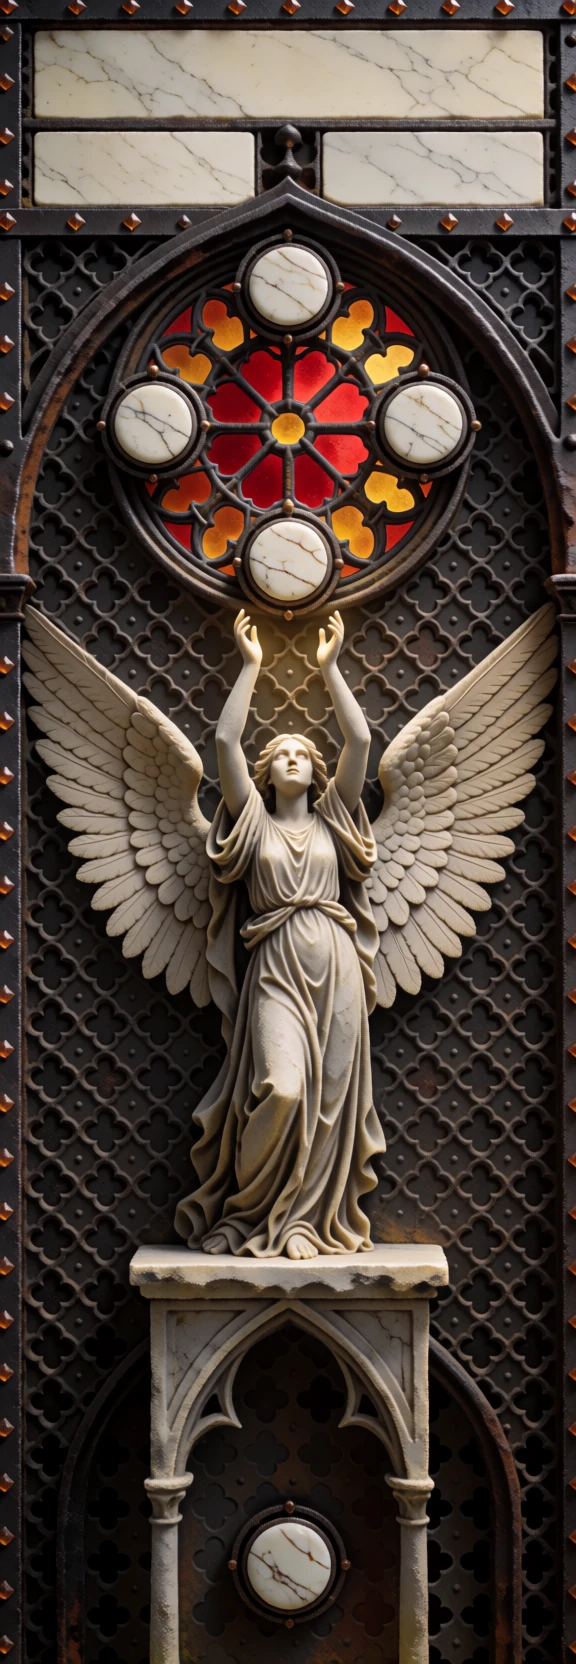
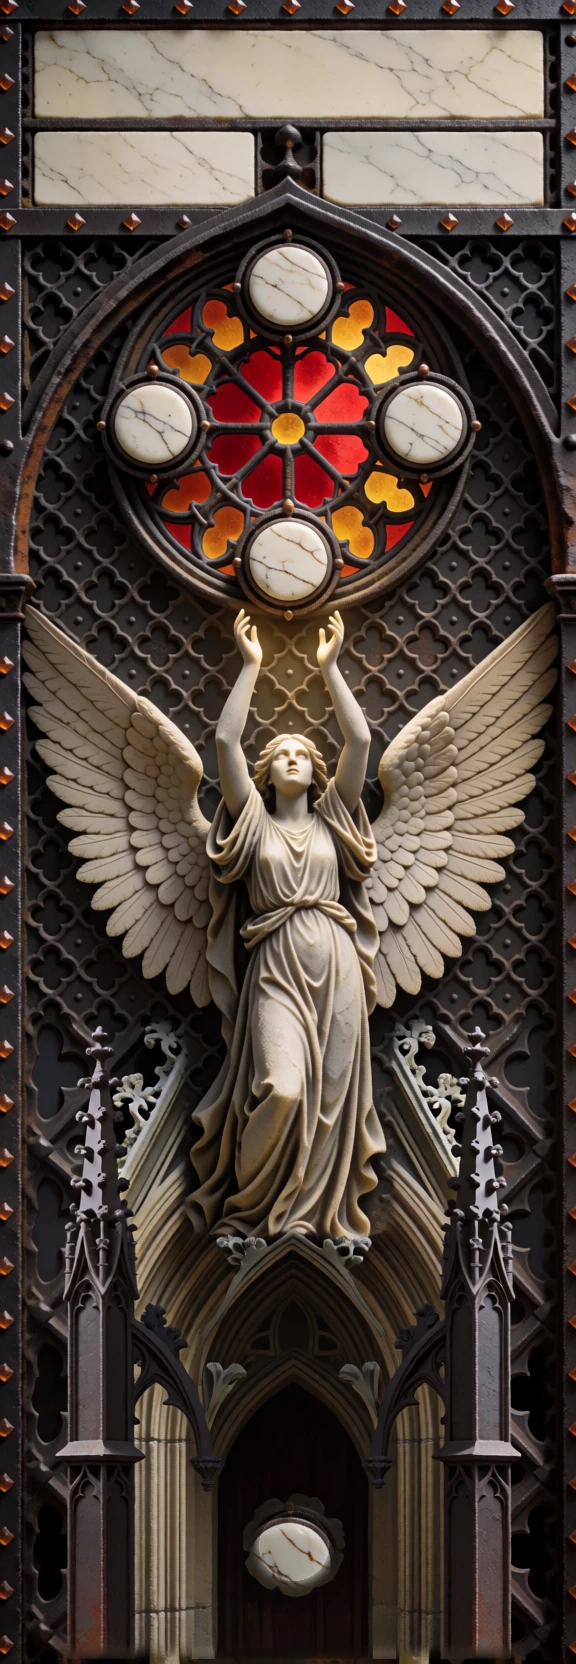
Jilliath's Capitol column: under the angel a stone portal framing the leave button, a crocketed gable and leaf corbel she stands on, pinnacles with flying buttresses (inpainted into round 4's base)

Changed region(s): [[0.0312, 0.5938, 0.9688, 1.0]]

diff --git a/scripts/art/hud-inpaint.ts b/scripts/art/hud-inpaint.ts
@@ -23,6 +23,22 @@ interface Repair {
 }
 
 const REPAIRS: Readonly<Record<string, Repair>> = {
+  /**
+   * What round 4's angel stands on (the user, 2026-10-11: "It looks like she's standing on a stool [...] Maybe that's
+   * where those spires can be?"): a foliage corbel crowning a crocketed gable over a pointed portal that frames the
+   * leave button, pinnacles beside her with small flying buttresses. Sketched into seed 4 and held to its own depth
+   * map (`art/greybox/jilliath-capitol-base/make.py`); the angel and the button are outside the mask.
+   */
+  "jilliath-capitol-base": {
+    source: "art/greybox/jilliath-capitol-base/source.png",
+    page: [300, 864],
+    boxes: [],
+    mask: "art/greybox/jilliath-capitol-base/mask.png",
+    denoise: [0.8, 0.9],
+    depth: { map: "art/greybox/jilliath-capitol-base/depth.png", strength: 0.9 },
+    prompt:
+      "Game interface art, the lower part of a tall dark iron column seen straight on, in soft even light without glare. Behind everything, blackened cast iron covered in a gothic diaper of small quatrefoils in a diamond lattice, dark on dark, old and worn. In the middle, a gothic church portal carved in pale weathered stone: a deep pointed doorway with moulded arches stepping inward, dark inside, a round ivory enamel button in an iron socket in its depths, under a steep gable with crockets climbing its edges, the gable's peak carrying a carved stone corbel of curling leaves on which a statue stands. On each side, a slender gothic pinnacle of dark iron with a crocketed spire and a finial, each joined to the portal by a small flying buttress. Old and worn, matte, with no polish. No text, no letters.",
+  },
   /** The duel bar's figures: arms and hands came out malformed (the user, 2026-10-10). */
   "duel-hands": {
     source: "art/candidates/ui/paint-in/battle-bar-duel-dull-nostone/battle-bar-duel-dull-nostone-3.png",

diff --git a/src/styles/skin-jilliath.css b/src/styles/skin-jilliath.css
@@ -4,7 +4,7 @@
    painting's own pixels, as measured from it. */
 body[data-skin="jilliath"]:not(.greybox) { --pg: calc(50rem / 864); }
 
-/* The Capitol's column (assets/ui/jilliath/capitol-column.webp, jilliath-capitol-column-4 seed 4, after the user's
+/* The Capitol's column (assets/ui/jilliath/capitol-column.webp, jilliath-capitol-column-4 seed 4 with its base repainted (jilliath-capitol-base d90-1), after the user's
    sketch): the tabs are four round buttons on the rim of a rose window an angel reaches up to, the leave button under
    her altar. */
 body[data-skin="jilliath"]:not(.greybox) .screen-column.capitol {
@@ -34,7 +34,7 @@ body[data-skin="jilliath"]:not(.greybox) .screen-column.capitol .tab.selected { 
 body[data-skin="jilliath"]:not(.greybox) .screen-column.capitol .tab.selected .label { color: var(--gbx-lit); }
 body[data-skin="jilliath"]:not(.greybox) .screen-column.capitol .tab.selected .glyph { filter: none; }
 /* Leaving: the round button under the altar, its symbol on the marble face. */
-body[data-skin="jilliath"]:not(.greybox) .screen-column.capitol .back { --x: 135; --y: 787; --w: 37; --h: 37; display: grid; place-items: center; border-radius: 50%; color: #241c15; }
+body[data-skin="jilliath"]:not(.greybox) .screen-column.capitol .back { --x: 135; --y: 790; --w: 37; --h: 37; display: grid; place-items: center; border-radius: 50%; color: #241c15; }
 body[data-skin="jilliath"]:not(.greybox) .screen-column.capitol .back svg { width: 62%; height: 62%; }
 body[data-skin="jilliath"]:not(.greybox) .screen-column.capitol .back:hover { box-shadow: 0 0 0 2px rgba(232, 195, 108, 0.6), 0 0 1rem rgba(232, 195, 108, 0.5); }
 /* The bottom button's name goes beside it: under it are the angel's hands. */

diff --git a/art/greybox/jilliath-capitol-base/make.py b/art/greybox/jilliath-capitol-base/make.py
@@ -1,0 +1,98 @@
+"""The ground under round 4's angel (the user, 2026-10-11: "It looks like she's standing on a stool [...] we can't just
+have a bunch of nothing there. Maybe that's where those spires can be?"), as an inpaint of seed 4: a pale stone corbel
+of foliage under her feet crowning a steep crocketed gable, a deep pointed portal under it framing the leave button
+(the way out as a doorway), slender pinnacles rising beside her robes, each tied to the portal by a small flying
+buttress. Writes, at the painting's size: source.png (seed 4 with a value sketch in the repainted part), depth.png and
+mask.png (white is repainted; the angel and the leave button stay as painted).
+
+    python art/greybox/jilliath-capitol-base/make.py
+"""
+from pathlib import Path
+
+from PIL import Image, ImageDraw, ImageFilter
+
+OUT = Path(__file__).parent
+SEED = Path("art/candidates/ui/paint-in/jilliath-capitol-column-4/jilliath-capitol-column-4-4.png")
+S = 576 / 300
+BUTTON = (153, 805, 26)  # the leave button's centre and a radius with its socket, page px
+
+
+def p(*xy: float) -> list[tuple[float, float]]:
+    return [(xy[i] * S, xy[i + 1] * S) for i in range(0, len(xy), 2)]
+
+
+def pointed(x0: float, y0: float, x1: float, y1: float) -> list[tuple[float, float]]:
+    """A pointed arch's outline: sides from y1 up to its springing, two arcs to the apex."""
+    w = x1 - x0
+    spring = y0 + w * 0.6
+    pts = [(x0, y1), (x0, spring)]
+    for i in range(1, 13):
+        t = i / 12
+        pts.append((x0 + w / 2 * t, spring - (spring - y0) * (1 - (1 - t) ** 2)))
+    for i in range(1, 13):
+        t = i / 12
+        pts.append((x0 + w / 2 + w / 2 * t, y0 + (spring - y0) * t ** 2))
+    pts += [(x1, spring), (x1, y1)]
+    return [(x * S, y * S) for x, y in pts]
+
+
+def draw(img: Image.Image, colours: dict[str, int | tuple[int, int, int]]) -> None:
+    d = ImageDraw.Draw(img)
+    c = colours
+    # pinnacles beside her robes: a square shaft, a crocketed spire, a finial
+    for x in (34, 230):
+        d.rectangle(p(x, 640, x + 36, 864), fill=c["iron"])
+        d.polygon(p(x + 18, 548, x + 34, 640, x + 2, 640), fill=c["iron"])
+        for k in range(5):
+            y = 566 + k * 15
+            d.ellipse(p(x + 18 - 9 + k * 1.5 - 4, y - 3, x + 18 - 9 + k * 1.5 + 2, y + 3), fill=c["crocket"])
+            d.ellipse(p(x + 18 + 9 - k * 1.5 - 2, y - 3, x + 18 + 9 - k * 1.5 + 4, y + 3), fill=c["crocket"])
+        d.ellipse(p(x + 14, 540, x + 22, 550), fill=c["crocket"])
+    # flying buttresses from each pinnacle to the portal
+    for x0, x1, flip in ((70, 104, 1), (230, 202, -1)):
+        pts = []
+        for i in range(13):
+            t = i / 12
+            pts.append(((x0 + (x1 - x0) * t) * S, (690 + 40 * t - 26 * 4 * t * (1 - t)) * S))
+        under = [(x * S, y * S) for x, y in ((x1, 744), (x0, 712))]
+        d.polygon(pts + under, fill=c["iron"])
+    # the portal: a deep pointed doorway framing the leave button
+    d.polygon(pointed(100, 700, 206, 864), fill=c["stone"])
+    d.polygon(pointed(112, 724, 194, 864), fill=c["deep"])
+    # the gable over it, crocketed, its finial carrying the corbel
+    d.polygon(p(92, 712, 153, 640, 214, 712), fill=c["stone"])
+    for k in range(6):
+        t = (k + 1) / 7
+        for x, y in ((92 + 61 * t, 712 - 72 * t), (214 - 61 * t, 712 - 72 * t)):
+            d.ellipse(p(x - 4, y - 7, x + 4, y + 1), fill=c["crocket"])
+    # the corbel under her feet: a cushion of foliage
+    d.polygon(p(112, 646, 194, 646, 176, 676, 130, 676), fill=c["stone"])
+    d.ellipse(p(124, 652, 182, 690), fill=c["stone"])
+    # the leave button in the portal
+    bx, by, br = BUTTON
+    d.ellipse(p(bx - br, by - br, bx + br, by + br), fill=c["socket"])
+    d.ellipse(p(bx - 18, by - 18, bx + 18, by + 18), fill=c["button"])
+
+
+def main() -> None:
+    seed = Image.open(SEED).convert("RGB")
+    W, H = seed.size
+    mask = Image.new("L", (W, H), 0)
+    m = ImageDraw.Draw(mask)
+    m.rectangle(p(14, 640, 286, 862), fill=255)
+    m.rectangle(p(14, 530, 98, 640), fill=255)
+    m.rectangle(p(202, 530, 286, 640), fill=255)
+    bx, by, br = BUTTON
+    m.ellipse(p(bx - 21, by - 21, bx + 21, by + 21), fill=0)
+    mask = mask.filter(ImageFilter.GaussianBlur(6))
+    mask.save(OUT / "mask.png")
+    sketch = seed.copy()
+    draw(sketch, dict(iron=(58, 52, 46), crocket=(84, 76, 66), stone=(150, 142, 128), deep=(14, 12, 11), socket=(30, 27, 24), button=(220, 212, 198)))
+    Image.composite(sketch, seed, mask).save(OUT / "source.png")
+    depth = Image.new("RGB", (W, H), (110, 110, 110))
+    draw(depth, dict(iron=(160, 160, 160), crocket=(196, 196, 196), stone=(176, 176, 176), deep=(36, 36, 36), socket=(150, 150, 150), button=(200, 200, 200)))
+    depth.save(OUT / "depth.png")
+    print("ok")
+
+
+main()

diff --git a/docs/design/hud-pieces.md b/docs/design/hud-pieces.md
@@ -717,3 +717,10 @@ face a diaper of quatrefoils in a diamond lattice; the saint and pinnacles repla
 weathered stone against the iron, wings across the column, arms raised to the window, a faint golden glow at her
 hands. Five of six held; seed 4 is in the game. The bottom button's label sits beside it, clear of her hands.
 `shots/jilliath-capitol-4.html`.
+
+**The base (2026-10-11).** The user on round 4: "Muuuch better. There's really only one thing left [...] It looks like
+she's standing on a stool right now [...] we can't just have a bunch of nothing there. Maybe that's where those spires
+can be? Think about something gothic we haven't shown yet." Repainted by inpainting only the base of seed 4
+(`jilliath-capitol-base`, sketch, depth and mask by `art/greybox/jilliath-capitol-base/make.py`): a pale stone portal
+with stepped arches framing the leave button (the way out as a door), a crocketed gable whose peak carries a corbel of
+leaves she stands on, two iron pinnacles with small flying buttresses. The pick is d90-1. `shots/jilliath-capitol-5.html`.

diff --git a/docs/status.md b/docs/status.md
@@ -46,7 +46,7 @@ check its exit code, not a grep of its output); `pnpm sizes` for any interface c
    Paint after a layout is judged, per faction skin. Glass rests. The code review is handled (`testing/code-review`).
    Jilliath's Capitol paint-in: round 1 rejected ("no soul or character"), reverted; round 4 from the user's sketch
    and idea (round buttons on a rose window, a stone angel channelling them, a leave symbol button), the column first
-   (`shots/jilliath-capitol-4.html`).
+   (`shots/jilliath-capitol-5.html`: a portal, gable and pinnacles under her).
    **Mana is one kind** (the user's call; `testing/mana-colours`, `decisions.md`): one number per player, the faction's
    colour only its accent. Save 35.
 1. **Finish Jilliath's concepts** with the user (the open nine), then portraits from the picks.

diff --git a/.kanban/in-progress/ui-kit-grotesques.md b/.kanban/in-progress/ui-kit-grotesques.md
@@ -282,3 +282,5 @@
   `shots/jilliath-capitol-3.html`. Waiting on the user.
 - **Round 4 (2026-10-11), the angel** (the user's idea): a pale stone angel, wings spread, channelling the tab orbs;
   a diaper face. `shots/jilliath-capitol-4.html`. Waiting on the user.
+- **The base (2026-10-11):** under the angel, a portal framing the leave button, a crocketed gable and corbel she
+  stands on, pinnacles with flying buttresses (inpainted into round 4). `shots/jilliath-capitol-5.html`.

diff --git a/assets/ui/SOURCES.md b/assets/ui/SOURCES.md
@@ -36,4 +36,4 @@ removed outright.
 ## Jilliath's skin (2026-10-11, the `hud-paint-in` skill, on the judged greybox layout)
 | File | Piece, seed | Cut |
 |---|---|---|
-| `jilliath/capitol-column.webp` | `jilliath-capitol-column-4`, 4 | whole, 576 × 1664 |
+| `jilliath/capitol-column.webp` | `jilliath-capitol-column-4`, 4, its base repainted by `jilliath-capitol-base` d90-1 (`scripts/art/hud-inpaint.ts`) | whole, 576 × 1664 |
